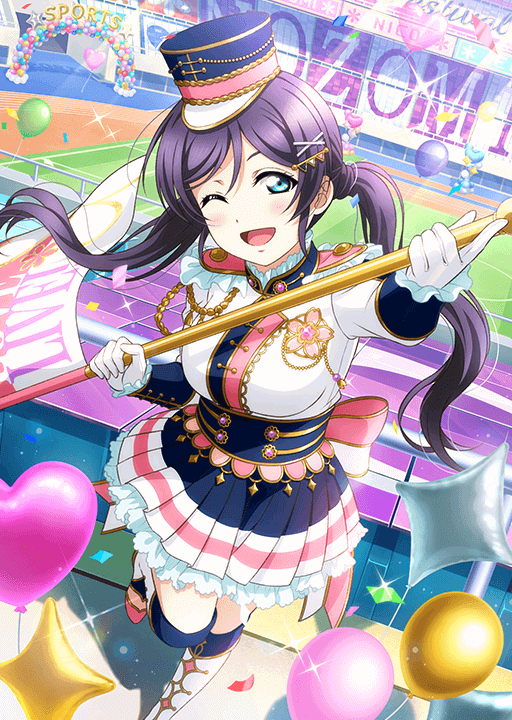
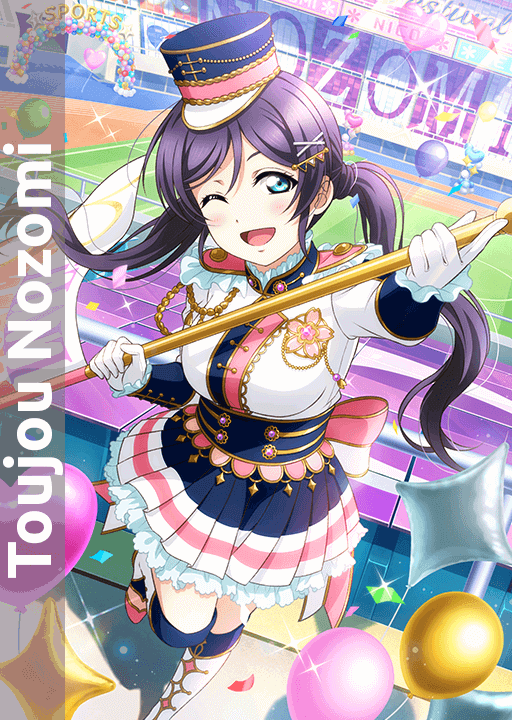
Added name to images using Gimp.

Changed region(s): [[0.0, 0.0, 0.125, 1.0]]

diff --git a/src/components/PlayField.js b/src/components/PlayField.js
@@ -6,19 +6,31 @@ import Card from "./Card"
 function importAll(r) {
     return r.keys().map(r)
   }
-  function checkAvailability(arr, val) {
+function checkAvailability(arr, val) {
     return arr.some(function(arrVal) {
       return val === arrVal;
     });
+}
+function shuffleFisherYates(array) {
+    let i = array.length;
+    while (i--) {
+      const ri = Math.floor(Math.random() * (i + 1));
+      [array[i], array[ri]] = [array[ri], array[i]];
+    }
+    return array;
   }
   
-const images = importAll(require.context('./img', false, /\.(png|jpe?g|svg)$/))
-console.log(images)
+let images = importAll(require.context('./img', false, /\.(png|jpe?g|svg)$/))
 
 function PlayField(){
     const [score,setScore]=useState(0)
-    const [maxScore,setMaxScore]=useState(8)
+    const [maxScore,setMaxScore]=useState(0)
     const [picked,setPicked]=useState([])
+
+   
+    useEffect(()=>{
+        images=shuffleFisherYates(images)
+    })
 
     const addScore= () => {
         setScore(prevScore=>prevScore+1)
@@ -29,11 +41,12 @@ function PlayField(){
     function checkRepeat(event){
         setPicked(prevPicked=>{
             if(!checkAvailability(picked,event.target.src)){
+                addScore()
                return prevPicked.concat(event.target.src)
             }
             else{
-                console.log("repeated")
-                return prevPicked
+                setScore(0)
+                return prevPicked=[]
             }
         })
     }
@@ -42,33 +55,11 @@ function PlayField(){
         <div>
             <NavBar  score={score} maxScore={maxScore}/>
         <div className="playField">
-            <div className="cardContainer" onClick={addScore,checkRepeat}>
-                <Card  img={images[Math.floor(Math.random() * images.length)].default} />
-            </div>
-            <div className="cardContainer" onClick={addScore,checkRepeat}>
-                <Card  img={images[Math.floor(Math.random() * images.length)].default} />
-            </div>
-            <div className="cardContainer" onClick={addScore,checkRepeat}>
-                <Card  img={images[Math.floor(Math.random() * images.length)].default} />
-            </div>
-            <div className="cardContainer" onClick={addScore,checkRepeat}>
-                <Card  img={images[Math.floor(Math.random() * images.length)].default} />
-            </div>
-            <div className="cardContainer" onClick={addScore,checkRepeat}>
-                <Card  img={images[Math.floor(Math.random() * images.length)].default} />
-            </div>
-            <div className="cardContainer" onClick={addScore,checkRepeat}>
-                <Card  img={images[Math.floor(Math.random() * images.length)].default} />
-            </div>
-            <div className="cardContainer" onClick={addScore,checkRepeat}>
-                <Card  img={images[Math.floor(Math.random() * images.length)].default} />
-            </div>
-            <div className="cardContainer" onClick={addScore,checkRepeat}>
-                <Card  img={images[Math.floor(Math.random() * images.length)].default} />
-            </div>
-            <div className="cardContainer" onClick={addScore,checkRepeat}>
-                <Card  img={images[Math.floor(Math.random() * images.length)].default} />
-            </div>
+            {images.map(img =>
+                 <div className="cardContainer" onClick={checkRepeat}>
+                 <Card  img={img.default}/>
+             </div>
+             ) }
         </div>
         </div>
     )

diff --git a/src/App.css b/src/App.css
@@ -23,7 +23,7 @@ body{
     height: auto;
     max-width: 100vw;
     display: grid;
-    grid-template-columns: 1fr 1fr 1fr 1fr;
+    grid-template-columns: 1fr 1fr 1fr 1fr 1fr;
 }
 
 .playField .cardContainer{
@@ -41,10 +41,55 @@ body{
 .playField .card img{
     max-width: 100%;
     height: auto;
-    border: #EF27A6 solid 5px;
+    border: #EF27A6 solid 3px;
 }
 .playField .card img:hover{
     max-width: 105%;
     border: #F8EDEB solid 5px;
 }
 
+@media (max-aspect-ratio: 9/5){
+    .playField{
+        background-color: #FCD5CE;
+        margin: 0;
+        padding: 0;
+        height: auto;
+        max-width: 100vw;
+        display: grid;
+        grid-template-columns: 1fr 1fr 1fr 1fr 1fr;
+    }
+}
+@media (max-aspect-ratio: 8/5){
+    .playField{
+        background-color: #FCD5CE;
+        margin: 0;
+        padding: 0;
+        height: auto;
+        max-width: 100vw;
+        display: grid;
+        grid-template-columns: 1fr 1fr 1fr 1fr;
+    }
+}
+@media (max-aspect-ratio: 6/5){
+    .playField{
+        background-color: #FCD5CE;
+        margin: 0;
+        padding: 0;
+        height: auto;
+        max-width: 100vw;
+        display: grid;
+        grid-template-columns: 1fr 1fr 1fr;
+    }
+}
+
+@media (max-aspect-ratio: 1/1){
+    .playField{
+        background-color: #FCD5CE;
+        margin: 0;
+        padding: 0;
+        height: auto;
+        max-width: 100vw;
+        display: grid;
+        grid-template-columns: 1fr 1fr;
+    }
+}
